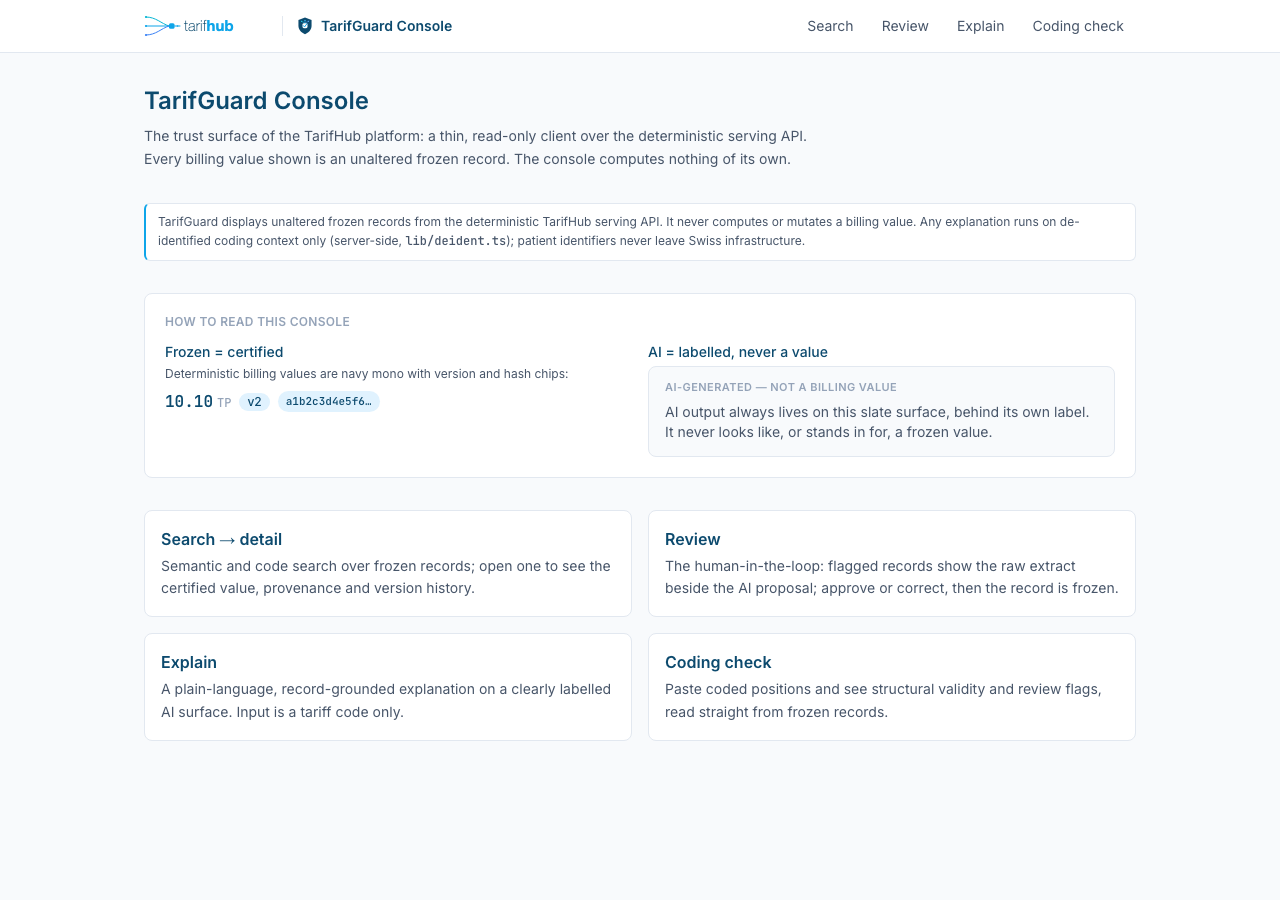
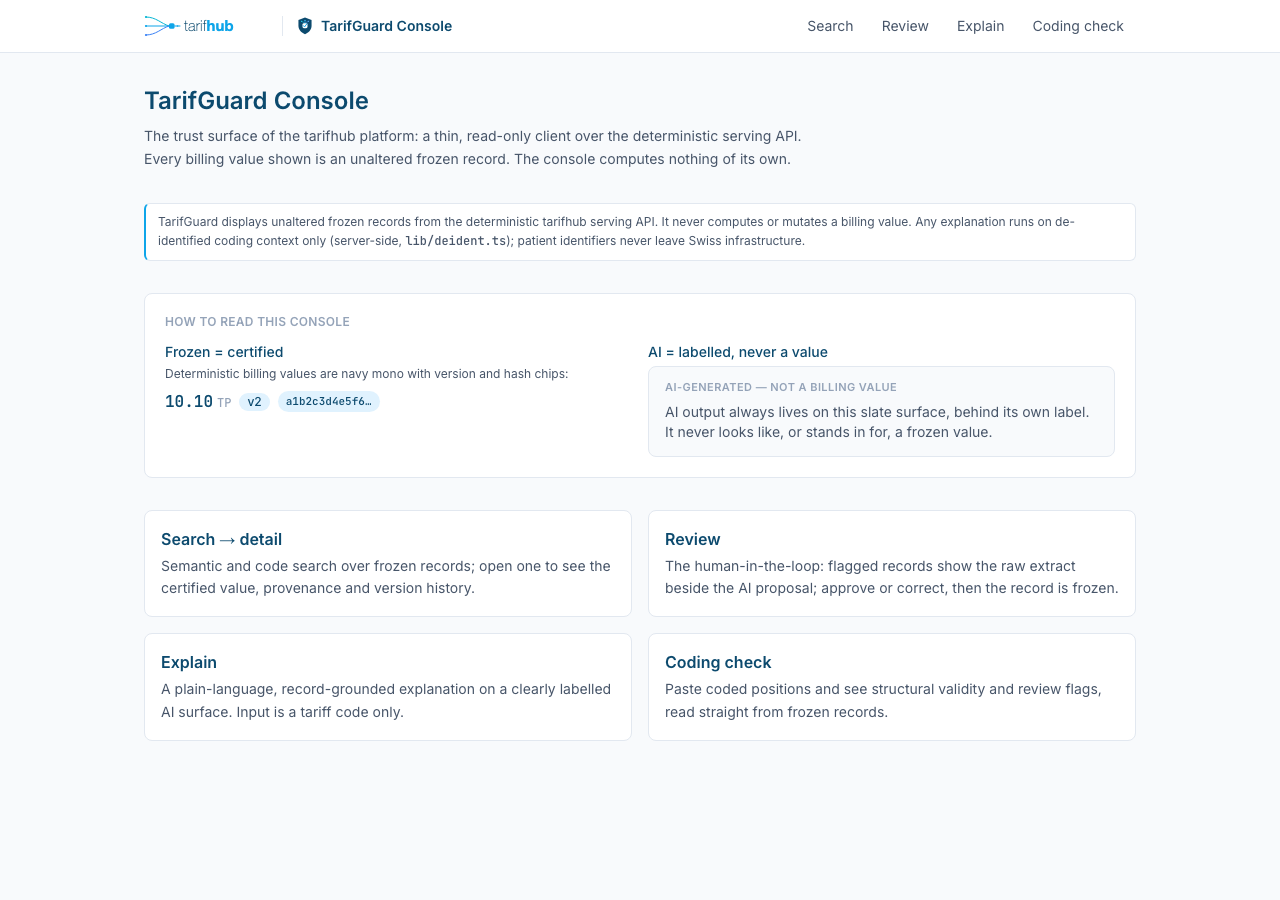
docs(evidence): capture the console explain-panel screenshot and confirm the UC-09 live view (#40)
Re-ran the CAPTURE=1 Playwright spec against the offline console to capture the deferred explain-panel screenshot (B1). The refreshed shot shows the labelled AI surface, the [deterministic] rule-generated explanation, and both frozen record versions with truncated record_hash chips. The same atomic capture also refreshed home.png and master-list.png, the other two views that changed since the 13 Jun capture (PR #16, 265b2e3): the 15 Jun brand-lowercasing (20a523e, home page + shared DisclaimerBanner) and the 20 Jun RFC-7807 refactor (dfc95c4, explain + search pages). The detail and review views render no banner and stayed byte-identical. This is not attributable to #38, which changed only lib/deident.ts backend logic.

Confirmed UC-09's use-case diagram (docs/diagrams/use-cases.svg, regenerated in #38, embedded at arc42/01) is current and depicts UC-09 Explain (labelled AI); the explain caption now names UC-09 (live) and states the seam precisely.

Reviewed by verifier (PASS) and codex gpt-5.5 (two caption overclaims caught and fixed in 51abefc). No value-path change; mkdocs --strict and cas_check --ci clean.

Changed region(s): [[0.4375, 0.2178, 0.8438, 0.2489], [0.25, 0.1244, 0.625, 0.1556]]

diff --git a/docs/arc42/05-building-block-view.md b/docs/arc42/05-building-block-view.md
@@ -87,6 +87,6 @@ The approve action, where a proposal becomes a frozen record with a new version 
 
 ![TarifGuard review freeze](../img/console/review-frozen.png)
 
-Explain panel: a record-grounded explanation on the labelled AI surface. The input is a tariff code only.
+Explain panel (UC-09, live): the explanation renders on the labelled AI surface. It is deterministic and rule-generated, assembled only from record fields and prefixed `[deterministic]`, never invented, while the matching record versions below it appear verbatim with their version and truncated `record_hash` chips. The panel takes a tariff code plus an optional clinical-context field, which is de-identified server-side so that the serving explain seam receives the code alone and no model is ever called.
 
 ![TarifGuard explain panel](../img/console/explain-panel.png)